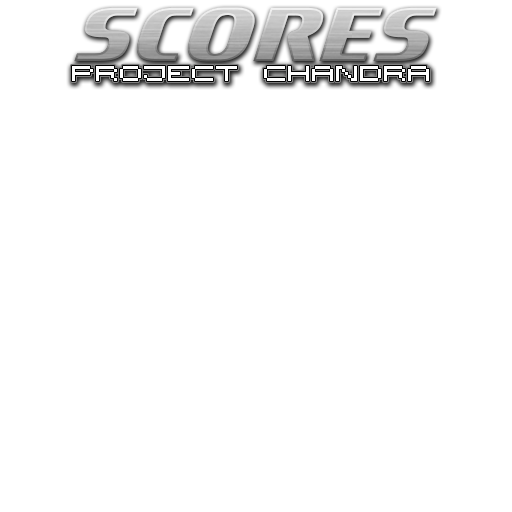
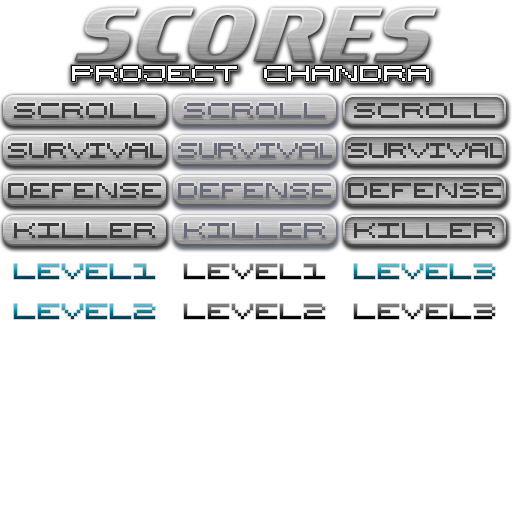
Advances in the MenuScores. New class MenuItemSelectionButton

diff --git a/IS_XNA_Shooter/IS_XNA_Shooter/IS_XNA_Shooter/Menus/MenuScores.cs b/IS_XNA_Shooter/IS_XNA_Shooter/IS_XNA_Shooter/Menus/MenuScores.cs
@@ -15,12 +15,20 @@ namespace IS_XNA_Shooter
         // state atributes
         private enum MenuScoresState
         {
-            LevelA1,
-            LevelB1,
-            LevelC1,
-            LevelADefense1
+            Showing,
+            Inserting
         }
         private MenuScoresState currentState;
+
+        private enum GameTypes
+        {
+            Scroll,
+            Survival,
+            Defense,
+            Killer
+        }
+        private GameTypes currentTypeSelected;
+        private int currentLevenNumSelected;
 
         // graphics atributes
         private Texture2D splash01;
@@ -30,6 +38,11 @@ namespace IS_XNA_Shooter
 
         private Texture2D blackpixel;
         private Rectangle screenRectangle;
+
+        private MenuItemSelectionButton itemScroll, itemSurvival, itemDefense, itemKiller;
+        private MenuItemSelectionButton itemLevel1, itemLevel2, itemLevel3;
+
+        private Vector2 textNamePosition, textScorePosition;
 
         private Vector2 backButtonPosition; // posicion de la opcion "back"
         private MenuItem itemBack;
@@ -44,13 +57,16 @@ namespace IS_XNA_Shooter
         private List<Row> LevelB1List;
         private List<Row> LevelC1List;
         private List<Row> LevelADefense1List;
+        private List<Row> listSelected;
 
         private XmlDocument xmlScores;
 
         public MenuScores(SuperGame mainGame)
         {
             this.mainGame = mainGame;
-            currentState = MenuScoresState.LevelA1;
+
+            textNamePosition = new Vector2((SuperGame.screenWidth / 2) - 200, 160);
+            textScorePosition = new Vector2((SuperGame.screenWidth / 2) + 200, 160);
 
             backButtonPosition = new Vector2(5, SuperGame.screenHeight - 45);
 
@@ -58,10 +74,26 @@ namespace IS_XNA_Shooter
             splash02 = new Sprite(true, new Vector2(SuperGame.screenWidth / 2, SuperGame.screenHeight + 10),
                 1, GRMng.menuSplash02); // the planet
             titleSprite = new Sprite(true, new Vector2(SuperGame.screenWidth / 2, 50),
-                0, GRMng.menuScores, new Rectangle(0, 0, 512, 92));
+                0, GRMng.menuScores, new Rectangle(0, 0, 512, 92)); // the title: "SCORES"
 
             blackpixel = GRMng.blackpixeltrans;
             screenRectangle = new Rectangle(0, 0, SuperGame.screenWidth, SuperGame.screenHeight);
+
+            itemScroll = new MenuItemSelectionButton(true, new Vector2((SuperGame.screenWidth / 2) - 300, 130),
+                GRMng.menuScores, new Rectangle(0, 92, 170, 40), new Rectangle(170, 92, 170, 40), new Rectangle(340, 92, 170, 40));
+            itemSurvival = new MenuItemSelectionButton(true, new Vector2((SuperGame.screenWidth / 2) - 100, 130),
+                GRMng.menuScores, new Rectangle(0, 132, 170, 40), new Rectangle(170, 132, 170, 40), new Rectangle(340, 132, 170, 40));
+            itemDefense = new MenuItemSelectionButton(true, new Vector2((SuperGame.screenWidth / 2) + 100, 130),
+                GRMng.menuScores, new Rectangle(0, 172, 170, 40), new Rectangle(170, 172, 170, 40), new Rectangle(340, 172, 170, 40));
+            itemKiller = new MenuItemSelectionButton(true, new Vector2((SuperGame.screenWidth / 2) + 300, 130),
+                GRMng.menuScores, new Rectangle(0, 212, 170, 40), new Rectangle(170, 212, 170, 40), new Rectangle(340, 212, 170, 40));
+
+            itemLevel1 = new MenuItemSelectionButton(true, new Vector2((SuperGame.screenWidth / 2) - 420, (SuperGame.screenHeight / 2) - 160), MathHelper.ToRadians(-90),
+                GRMng.menuScores, new Rectangle(0, 252, 170, 40), new Rectangle(170, 252, 170, 40), new Rectangle(0, 252, 170, 40));
+            itemLevel2 = new MenuItemSelectionButton(true, new Vector2((SuperGame.screenWidth / 2) - 420, SuperGame.screenHeight / 2), MathHelper.ToRadians(-90),
+                GRMng.menuScores, new Rectangle(0, 292, 170, 40), new Rectangle(170, 292, 170, 40), new Rectangle(0, 292, 170, 40));
+            itemLevel3 = new MenuItemSelectionButton(true, new Vector2((SuperGame.screenWidth / 2) - 420, (SuperGame.screenHeight / 2) + 160), MathHelper.ToRadians(-90),
+                GRMng.menuScores, new Rectangle(340, 292, 170, 40), new Rectangle(340, 252, 170, 40), new Rectangle(340, 292, 170, 40));
 
             itemBack = new MenuItem(false, backButtonPosition, GRMng.menuMain,
                 new Rectangle(120, 360, 120, 40), new Rectangle(240, 360, 120, 40), new Rectangle(360, 360, 120, 40));
@@ -74,6 +106,11 @@ namespace IS_XNA_Shooter
             LevelC1List = new List<Row>();
             LevelADefense1List = new List<Row>();
 
+            currentState = MenuScoresState.Showing;
+            currentTypeSelected = GameTypes.Killer;
+            currentLevenNumSelected = 1;
+            listSelected = LevelA1List;
+
             LoadXml();
         } // Load
 
@@ -81,8 +118,18 @@ namespace IS_XNA_Shooter
         {
             splash02.rotation += splash02RotationVelocity * deltaTime;
 
-            itemBack.Update(X, Y);
-        }
+            switch (currentState)
+            {
+                case MenuScoresState.Showing:
+                    itemScroll.Update(X, Y);
+                    itemSurvival.Update(X, Y);
+                    itemDefense.Update(X, Y);
+                    itemKiller.Update(X, Y);
+                    itemBack.Update(X, Y);
+                    break;
+            } // switch
+
+        } // Update
 
         public void Draw(SpriteBatch spriteBatch)
         {
@@ -92,15 +139,31 @@ namespace IS_XNA_Shooter
 
             switch (currentState)
             {
-                case MenuScoresState.LevelA1:
-                    spriteBatch.DrawString(SuperGame.fontMotorwerk, "LevelA1:", new Vector2(10, 30),
-                        Color.White, 0, Vector2.Zero, 1, SpriteEffects.None, 0);
-                    for (int i=0; i<LevelA1List.Count; i++)
+                case MenuScoresState.Showing:
+
+                    itemScroll.Draw(spriteBatch);
+                    itemSurvival.Draw(spriteBatch);
+                    itemDefense.Draw(spriteBatch);
+                    itemKiller.Draw(spriteBatch);
+
+                    itemLevel1.Draw(spriteBatch);
+                    itemLevel2.Draw(spriteBatch);
+                    itemLevel3.Draw(spriteBatch);
+
+                    /*spriteBatch.DrawString(SuperGame.fontMotorwerk, "LevelA1:", new Vector2(10, 30),
+                        Color.White, 0, Vector2.Zero, 1, SpriteEffects.None, 0);*/
+                    spriteBatch.DrawString(SuperGame.fontMotorwerk, "Name:", textNamePosition, Color.White, 0,
+                        Vector2.Zero, 1, SpriteEffects.None, 0);
+                    spriteBatch.DrawString(SuperGame.fontMotorwerk, "Score:", textScorePosition, Color.White, 0,
+                        Vector2.Zero, 1, SpriteEffects.None, 0);
+                    for (int i = 0; i < listSelected.Count; i++)
                     {
-                        spriteBatch.DrawString(SuperGame.fontMotorwerk, "Score: " + LevelA1List[i].score,
-                            new Vector2(30, 30 * (i+1)), Color.White, 0, Vector2.Zero, 1, SpriteEffects.None, 0);
-                        spriteBatch.DrawString(SuperGame.fontMotorwerk, "Name: " + LevelA1List[i].playerName,
-                            new Vector2(220, 30 * (i+1)), Color.White, 0, Vector2.Zero, 1, SpriteEffects.None, 0);
+                        spriteBatch.DrawString(SuperGame.fontMotorwerk, listSelected[i].playerName,
+                            new Vector2(textNamePosition.X, textNamePosition.Y + (25 * (i + 2))),
+                            Color.White, 0, Vector2.Zero, 1, SpriteEffects.None, 0);
+                        spriteBatch.DrawString(SuperGame.fontMotorwerk, listSelected[i].score.ToString(),
+                            new Vector2(textScorePosition.X, textNamePosition.Y + (25 * (i + 2))),
+                            Color.White, 0, Vector2.Zero, 1, SpriteEffects.None, 0);
                     }
                     break;
             } // switch
@@ -111,17 +174,35 @@ namespace IS_XNA_Shooter
 
         public void Click(int X, int Y)
         {
-            itemBack.Click(X, Y);
-        }
+            switch (currentState)
+            {
+                case MenuScoresState.Showing:
+                    itemScroll.Click(X, Y);
+                    itemSurvival.Click(X, Y);
+                    itemDefense.Click(X, Y);
+                    itemKiller.Click(X, Y);
+                    itemBack.Click(X, Y);
+
+                    itemBack.Click(X, Y);
+                    break;
+            } // switch
+            
+        } // Click
 
         public void Unclick(int X, int Y)
         {
-            if (itemBack.Unclick(X, Y))
+            switch (currentState)
             {
-                Audio.PlayEffect("digitalAcent01");
-                mainGame.ReturnFromScores();
-            }
-        }
+                case MenuScoresState.Showing:
+                    if (itemBack.Unclick(X, Y))
+                    {
+                        Audio.PlayEffect("digitalAcent01");
+                        mainGame.ReturnFromScores();
+                    }
+                    break;
+            } // switch
+            
+        } // Unclick
 
         private void LoadXml()
         {
@@ -150,7 +231,7 @@ namespace IS_XNA_Shooter
                     case "LevelC1":         currentListLevel = LevelC1List;         break;
                     case "LevelADefense1":  currentListLevel = LevelADefense1List;  break;
                     default:
-                        // TODO lauch an exception
+                        // TODO launch an exception
                         break;
                 }
 

diff --git a/IS_XNA_Shooter/IS_XNA_Shooter/IS_XNA_Shooter/Menus/MenuItem.cs b/IS_XNA_Shooter/IS_XNA_Shooter/IS_XNA_Shooter/Menus/MenuItem.cs
@@ -11,13 +11,13 @@ namespace IS_XNA_Shooter
     class MenuItem
     {
         /* ------------------- ATRIBUTOS ------------------- */
-        private Rectangle rectangle; // rectángulo "contenedor" del botón
-        private Vector2 position;
-        private float rotation;
-        private bool middlePosition, preshed;
-        private Vector2 drawPoint;
-        private Texture2D texture;
-        private Rectangle rectIddle, rectSelected, rectPushed, rectActual;
+        protected Rectangle rectangle; // rectángulo "contenedor" del botón
+        protected Vector2 position;
+        protected float rotation;
+        protected bool middlePosition, preshed;
+        protected Vector2 drawPoint;
+        protected Texture2D texture;
+        protected Rectangle rectIddle, rectSelected, rectPushed, rectActual;
 
         /* ------------------- CONSTRUCTORES ------------------- */
         public MenuItem(bool middlePosition, Vector2 position, Texture2D texture,
@@ -47,8 +47,15 @@ namespace IS_XNA_Shooter
             rectActual = rectIddle;
         }
 
+        public MenuItem(bool middlePosition, Vector2 position, float rotation, Texture2D texture,
+            Rectangle rectIddle, Rectangle rectSelected, Rectangle rectPushed)
+            : this(middlePosition, position, texture, rectIddle, rectSelected, rectPushed)
+        {
+            this.rotation = rotation;
+        }
+
         /* ------------------- MÉTODOS ------------------- */
-        public void Update(int X, int Y)
+        public virtual void Update(int X, int Y)
         {
             /*if (rectangle.Contains(X, Y) && !preshed)
                 rectActual = rectSelected;*/
@@ -70,7 +77,7 @@ namespace IS_XNA_Shooter
                 Program.scale, SpriteEffects.None, 0);
         }
 
-        public bool Click(int X, int Y)
+        public virtual bool Click(int X, int Y)
         {
             if (rectangle.Contains(X, Y))
             {
@@ -82,7 +89,7 @@ namespace IS_XNA_Shooter
                 return false;
         }
 
-        public bool Unclick(int X, int Y)
+        public virtual bool Unclick(int X, int Y)
         {
             if (rectangle.Contains(X, Y) && preshed)
             {

diff --git a/IS_XNA_Shooter/IS_XNA_Shooter/IS_XNA_Shooter/Menus/MenuItemSelectionButton.cs b/IS_XNA_Shooter/IS_XNA_Shooter/IS_XNA_Shooter/Menus/MenuItemSelectionButton.cs
@@ -1,0 +1,78 @@
+using System;
+using System.Collections.Generic;
+using System.Linq;
+using System.Text;
+using Microsoft.Xna.Framework;
+using Microsoft.Xna.Framework.Graphics;
+
+namespace IS_XNA_Shooter
+{
+    class MenuItemSelectionButton : MenuItem
+    {
+
+        private bool selected;
+
+        public MenuItemSelectionButton(bool middlePosition, Vector2 position, Texture2D texture,
+            Rectangle rectIddle, Rectangle rectSelected, Rectangle rectPushed)
+            : base(middlePosition, position, texture, rectIddle, rectSelected, rectPushed)
+        {
+            selected = false;
+        }
+
+        public MenuItemSelectionButton(bool middlePosition, Vector2 position, float rotation,
+            Texture2D texture, Rectangle rectIddle, Rectangle rectSelected, Rectangle rectPushed)
+            : base(middlePosition, position, rotation, texture, rectIddle, rectSelected, rectPushed)
+        {
+            selected = false;
+        }
+
+        public override void Update(int X, int Y)
+        {
+            if (rectangle.Contains(X, Y))
+            {
+                if (!preshed)
+                    rectActual = rectSelected;
+            }
+            else if (!selected)
+            {
+                rectActual = rectIddle;
+                preshed = false;
+            }
+        }
+
+        public override bool Click(int X, int Y)
+        {
+            if (rectangle.Contains(X, Y))
+            {
+                preshed = true;
+                rectActual = rectPushed;
+                return true;
+            }
+            else
+                return false;
+        }
+
+        public override bool Unclick(int X, int Y)
+        {
+            if (rectangle.Contains(X, Y) && preshed)
+            {
+                preshed = false;
+                selected = true;
+                return true;
+            }
+            else
+                return false;
+        }
+
+        public void SetSelected()
+        {
+            selected = true;
+        }
+
+        public void SetSelected(bool aux)
+        {
+            selected = aux;
+        }
+
+    } // class MenuItemSelectionButton
+}
